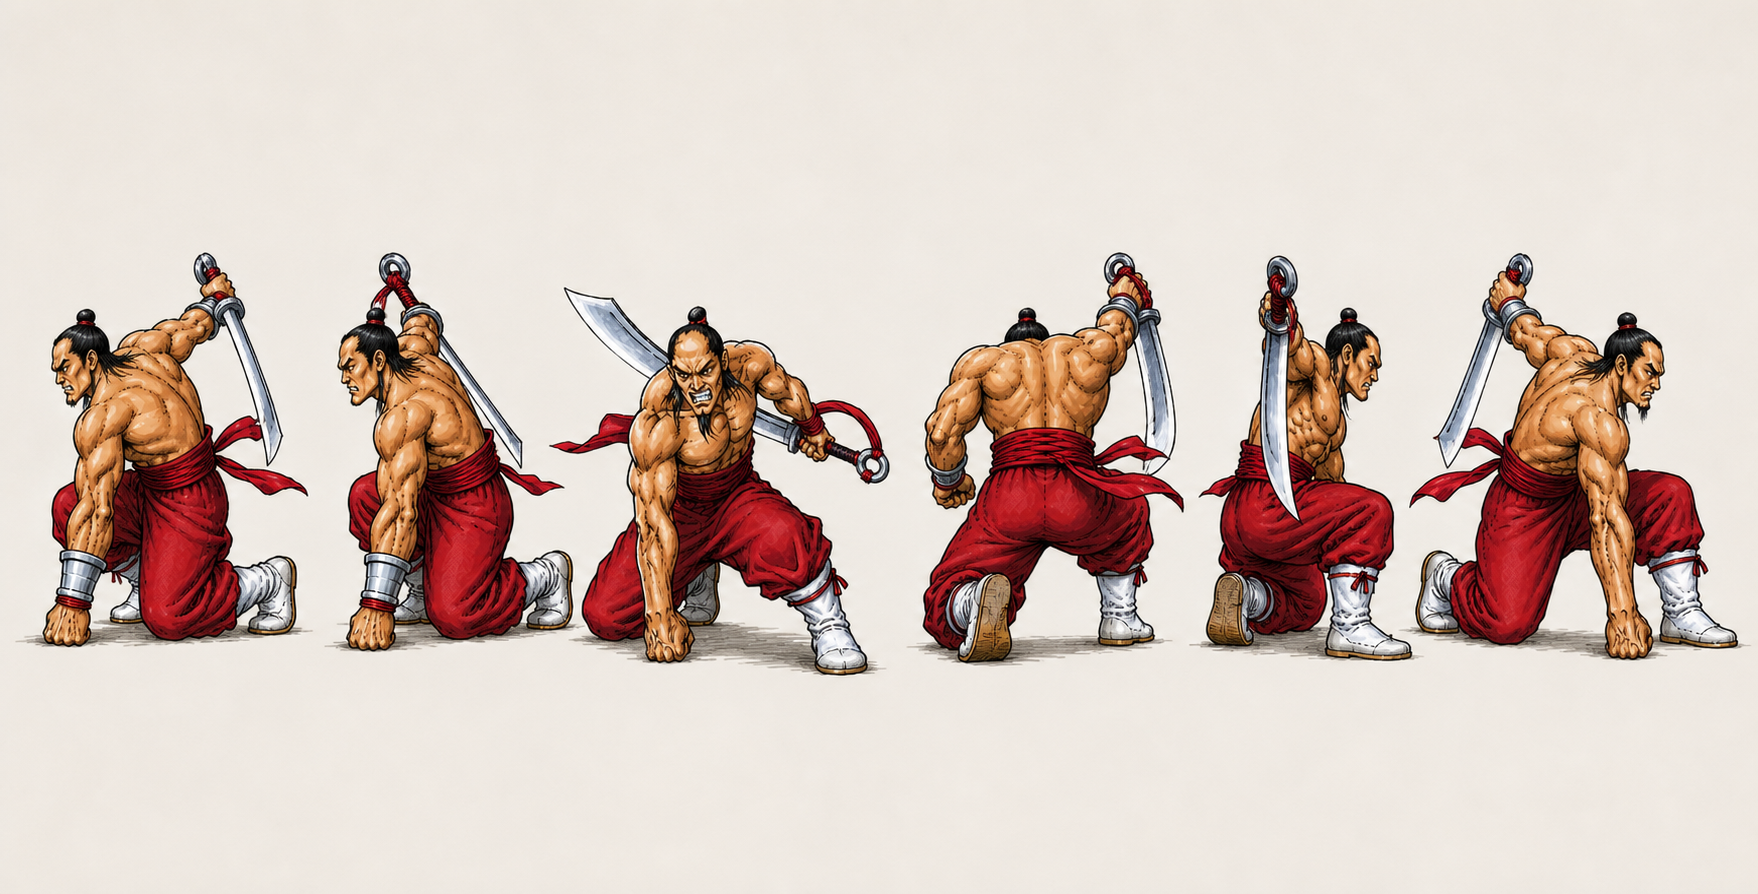
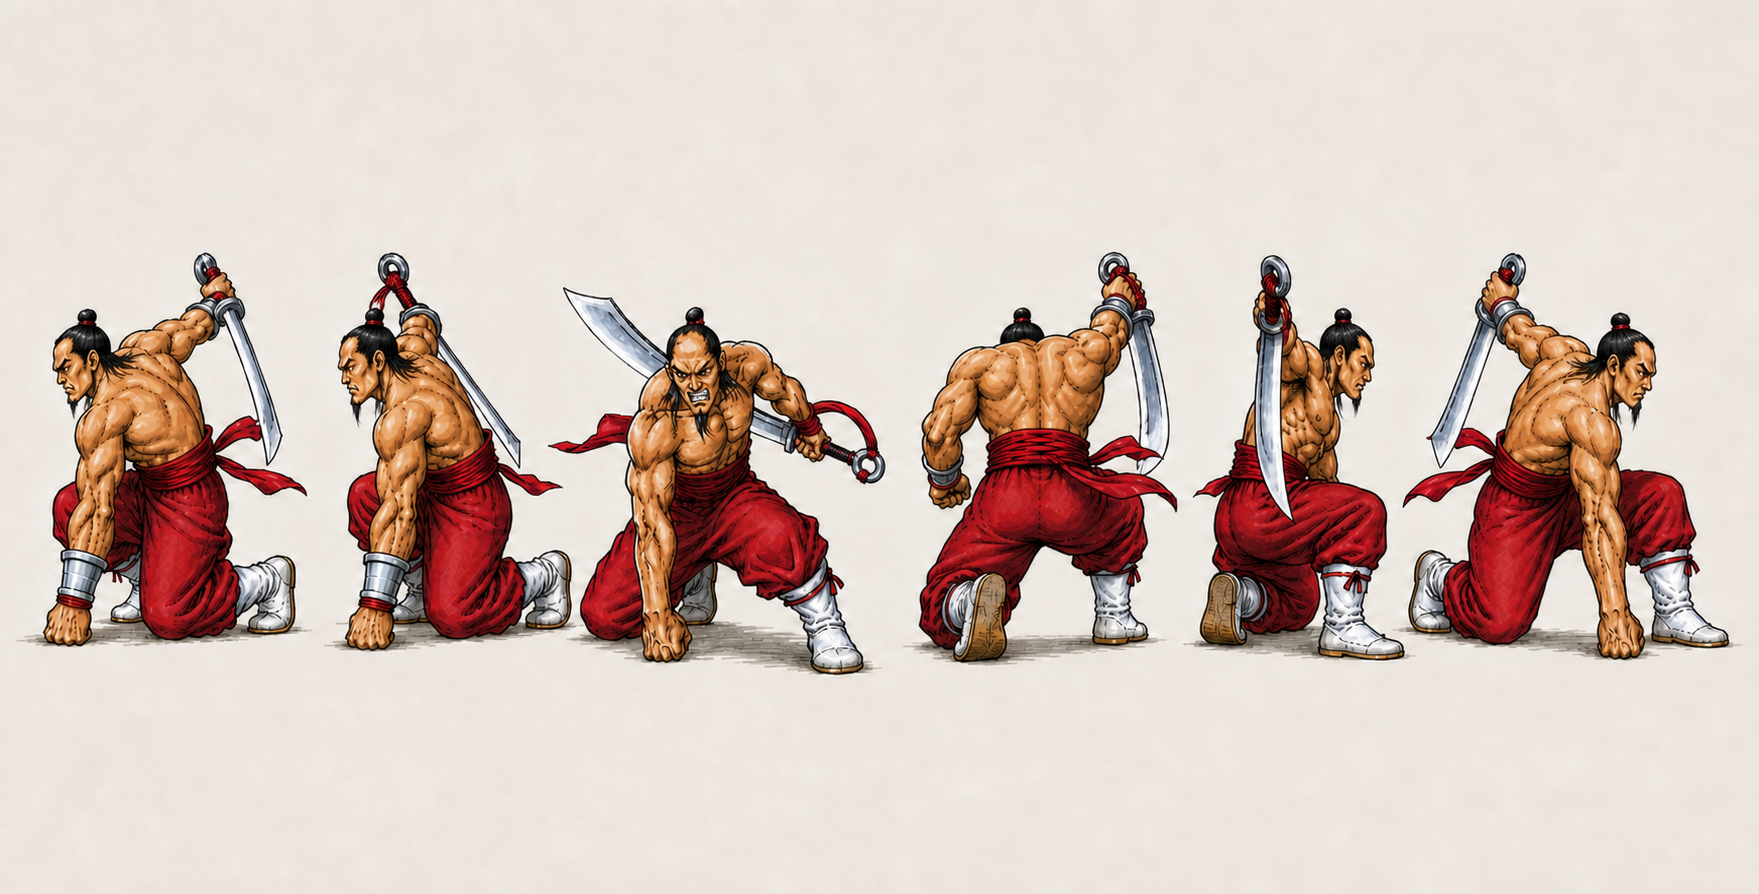
fix(角色设定): 补全 094 山羊胡
依据原卡纠正胡须规格，并同步中立六视图、头部四视图与原画姿态版。\n\n保留返修前版本并更新生成提示与复核记录。

Changed region(s): [[0.0, 0.2718, 1.0, 0.755]]

diff --git a/character-model-sheets/characters/094/review-notes.md b/character-model-sheets/characters/094/review-notes.md
@@ -28,3 +28,10 @@
 - [x] 纯后脑没有出现面部；左右侧面来自角色不同解剖侧，未用表情变化代替视角变化。
 - [x] 原图未展示的后脑与连接结构继续按规格中的 `inferred`／`unknown` 克制处理，不宣称为原作事实。
 - 状态保持 `generated`，等待用户批准。
+
+## 2026-08-22 山羊胡纠错
+
+- [x] 重新核对原卡：下唇至下巴中央可确认有一绺细长、尖束状黑色山羊胡；旧规格“无清晰胡须”为误判。
+- [x] 中立六视图、头部四视图与原画姿态版已统一山羊胡根部、长度、收尖轮廓和黑色；纯背面按真实遮挡处理。
+- [x] 除胡须外，人物身份、脸型、发型、体型、服装、配色、姿态、武器、列顺序、尺度、背景和画风均保持不变。
+- [x] 主文件已更新；返修前文件分别保留为 `character-turnaround-v3.png`、`head-sheet-v1.png` 与 `character-turnaround-original-pose-v1.png`。
